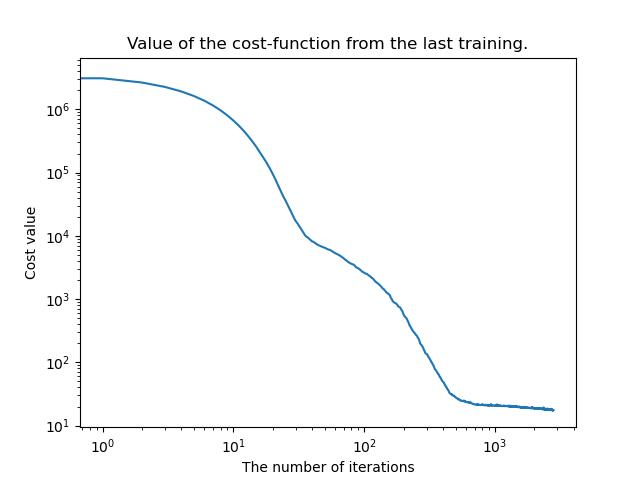
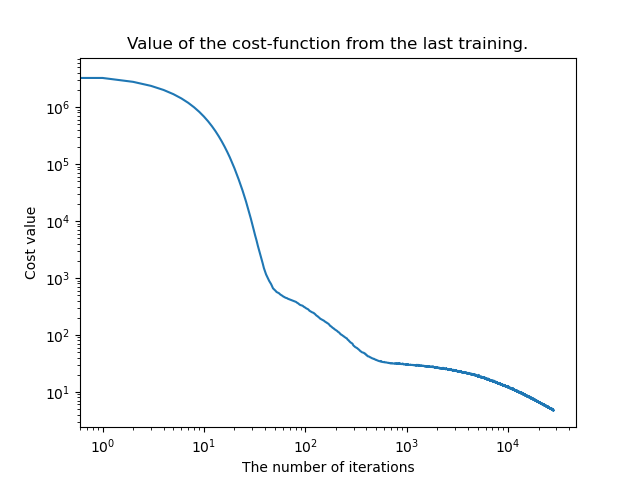
fixed the dataset california housing

diff --git a/project3/code/test_project_3.py b/project3/code/test_project_3.py
@@ -850,7 +850,7 @@ if test16:
         n_components, 100)
 
     # Setting the architecture of the Neural Network
-    node_list = [20]
+    node_list = [5]
 
     # Initializing the Neural Network
     FFNN = Neural_Network(
@@ -861,10 +861,10 @@ if test16:
 
     # Setting the preffered Stochastic Gradient Descent parameters
     FFNN.set_SGD_values(
-        n_epochs=400,
-        batch_size=10,
-        gamma=0.3,
-        eta=1e-4,
+        n_epochs=1000,
+        batch_size=5,
+        gamma=0.4,
+        eta=1e-3,
         lmbda=0)
 
     # Setting the preffered cost- and activation functions
@@ -876,6 +876,9 @@ if test16:
 
     y_pred_train = FFNN.feed_forward(X_train)
     y_pred_test = FFNN.feed_forward(X_test)
+
+    for i, j in zip(y_pred_train, y_train):
+        print(f'(pred) {i} - {j} (exact). DIFF = {abs(i-j)}')
 
     print(helper.r2_score(y_pred_train, y_train))
     print(helper.r2_score(y_test, y_pred_test))

diff --git a/project3/code/helper.py b/project3/code/helper.py
@@ -490,8 +490,8 @@ def load_housing_california_data(n, m_observations, show_explained_ratio=False):
     # TODO: shuffle the data
 
     # Selecting the n first components w.r.t. the PCA
-    X_input = X_input[:m_observations, :-1]
-    y_target = X_input[:m_observations, -1]
+    X_input = X_input[:m_observations]
+    y_target = y_target[:m_observations]
 
     pca = PCA(n_components=n)
     X_nD = pca.fit_transform(X_input)
